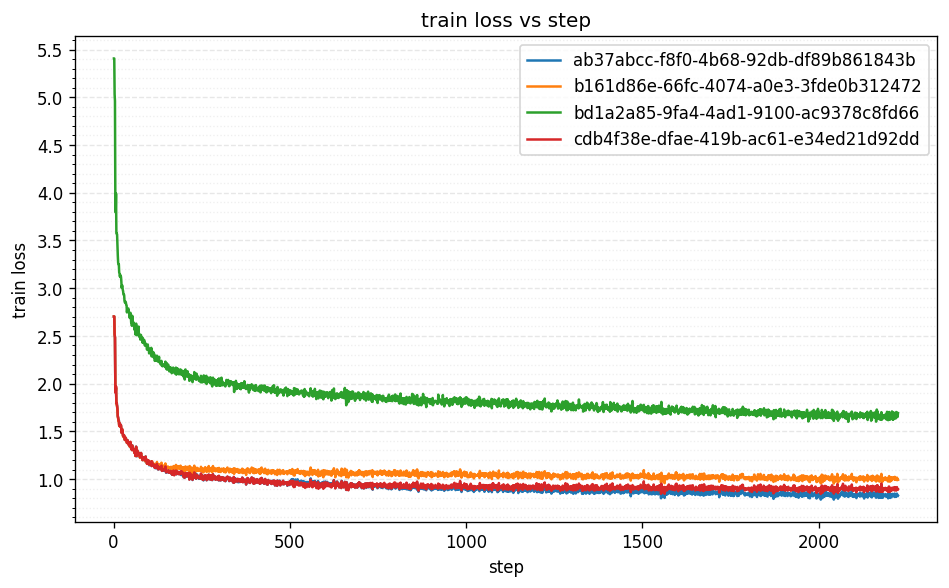
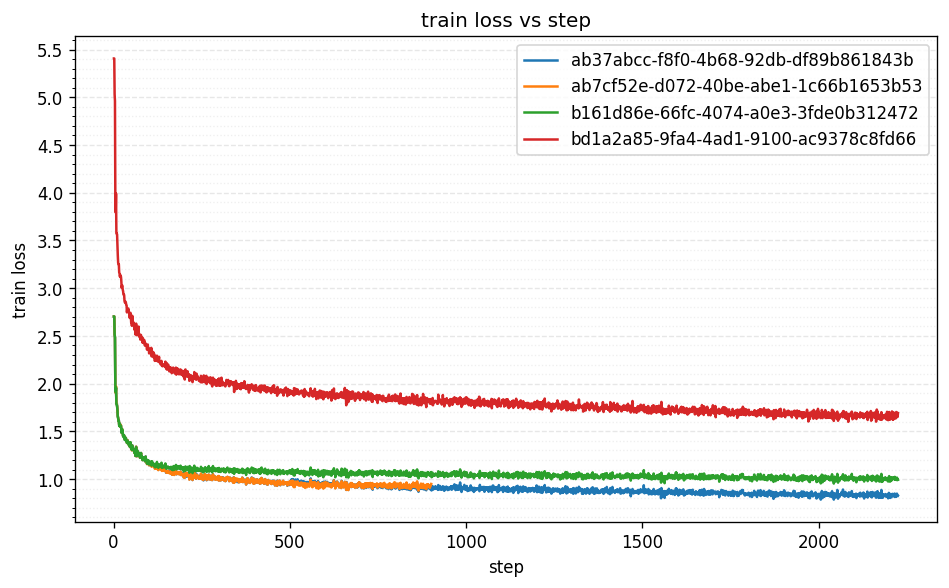
adapt

diff --git a/adtrain.py b/adtrain.py
@@ -1249,9 +1249,10 @@ class CausalSelfAttention(nn.Module):
 
 
 class MLP(nn.Module):
-    def __init__(self, dim: int):
+    def __init__(self, dim: int, expansion_factor: float = 4.0, topk_ratio: float = 1.0):
         super().__init__()
-        hdim = 4 * dim
+        hdim = int(expansion_factor * dim)
+        self.topk_ratio = topk_ratio
         # make matrices the same shape to enable batched call in optimizer
         self.c_fc = nn.Parameter(torch.empty(dim, hdim))
         self.c_proj = nn.Parameter(torch.empty(dim, hdim))
@@ -1270,16 +1271,27 @@ class MLP(nn.Module):
     def forward(self, x: Tensor):
         x = F.linear(x, self.c_fc.T.type_as(x))
         x = F.relu(x).square() # https://arxiv.org/abs/2109.08668v2; ~1-2% better than GELU; suggested by @SKYLINEZ007 and @Grad62304977
+
+        # Apply top-k sparsity if requested
+        if self.topk_ratio < 1.0 and self.training:
+            k = max(1, int(self.topk_ratio * x.size(-1)))
+            # Get top-k values and indices
+            topk_vals, topk_idx = torch.topk(x, k, dim=-1)
+            # Create sparse tensor
+            x_sparse = torch.zeros_like(x)
+            x_sparse.scatter_(-1, topk_idx, topk_vals)
+            x = x_sparse
+
         x = F.linear(x, self.c_proj.type_as(x))
         return x
 
 class Block(nn.Module):
-    def __init__(self, dim: int, head_dim: int, num_heads: int, layer_idx: int):
+    def __init__(self, dim: int, head_dim: int, num_heads: int, layer_idx: int, mlp_expansion_factor: float = 4.0, mlp_topk_ratio: float = 1.0):
         super().__init__()
         # skip attention of blocks.7 (the 8th layer) by @YouJiacheng
         self.attn = CausalSelfAttention(dim, head_dim, num_heads) if layer_idx not in [0, 7] else None
         # skip MLP blocks for first MLP layer by @EmelyanenkoK
-        self.mlp = MLP(dim) if layer_idx != 0 else None
+        self.mlp = MLP(dim, mlp_expansion_factor, mlp_topk_ratio) if layer_idx != 0 else None
 
     def forward(self, x: Tensor, x0: Tensor, lambdas: Tensor, attn_args: AttnArgs):
         x = lambdas[0] * x + lambdas[1] * x0
@@ -1296,7 +1308,7 @@ def next_multiple_of_n(v: float | int, *, n: int):
     return next(x for x in range(n, int(v) + 1 + n, n) if x >= v)
 
 class GPT(nn.Module):
-    def __init__(self, vocab_size: int, num_layers: int, num_heads: int, head_dim: int, model_dim: int, max_seq_len: int):
+    def __init__(self, vocab_size: int, num_layers: int, num_heads: int, head_dim: int, model_dim: int, max_seq_len: int, mlp_expansion_factor: float = 4.0, mlp_topk_ratio: float = 1.0):
         super().__init__()
         vocab_size = next_multiple_of_n(vocab_size, n=128)
         self.embed = nn.Embedding(vocab_size, model_dim)
@@ -1306,7 +1318,7 @@ class GPT(nn.Module):
         # token value embeddings by @KoszarskyB - inspired by @Grad62304977's value residual implementation following https://arxiv.org/abs/2410.17897
         # value embedding code simplification inspired by @ragulpr https://github.com/KellerJordan/modded-nanogpt/pull/78
         self.value_embeds = nn.ModuleList([nn.Embedding(vocab_size, model_dim) for _ in range(3)])
-        self.blocks = nn.ModuleList([Block(model_dim, head_dim, num_heads, i) for i in range(num_layers)])
+        self.blocks = nn.ModuleList([Block(model_dim, head_dim, num_heads, i, mlp_expansion_factor, mlp_topk_ratio) for i in range(num_layers)])
         self.yarn = Yarn(head_dim, max_seq_len)
         # there are only 50257 unique GPT-2 tokens; we extend to nearest multiple of 128 for efficiency.
         # suggested to me by @Grad62304977. this originates from Karpathy's experiments.
@@ -1621,6 +1633,11 @@ class Hyperparameters:
     # momentum soft reset
     soft_reset_momentum_at_steps: tuple = ()  # steps to soft reset momentum (e.g., (500, 1000))
     soft_reset_momentum_beta: float = 0.4  # temporary beta1 value for soft reset (lower = more reset)
+    # architectural sparsity options
+    mlp_expansion_factor: float = 4.0  # MLP hidden dim = expansion_factor * model_dim (default 4.0, try 3.0 for 25% savings)
+    mlp_topk_ratio: float = 1.0  # Keep top-k ratio of MLP activations (1.0 = dense, 0.75 = 25% sparse)
+    use_adaptive_depth: bool = False  # Enable adaptive depth (early exit for easy tokens)
+    adaptive_depth_threshold: float = 0.5  # Confidence threshold for early exit (higher = exit earlier)
     # evaluation and logging
     run_id: str = f"{uuid.uuid4()}"
     val_loss_every: int = 250  # every how many steps to evaluate val loss? 0 for only at the end
@@ -1694,7 +1711,9 @@ model: nn.Module = GPT(
     num_heads=6,
     head_dim=128,
     model_dim=768,
-    max_seq_len=max(args.train_batch_size, args.val_batch_size) // (grad_accum_steps * world_size)
+    max_seq_len=max(args.train_batch_size, args.val_batch_size) // (grad_accum_steps * world_size),
+    mlp_expansion_factor=args.mlp_expansion_factor,
+    mlp_topk_ratio=args.mlp_topk_ratio
 ).cuda()
 for m in model.modules():
     if isinstance(m, (nn.Embedding, nn.Linear)):
